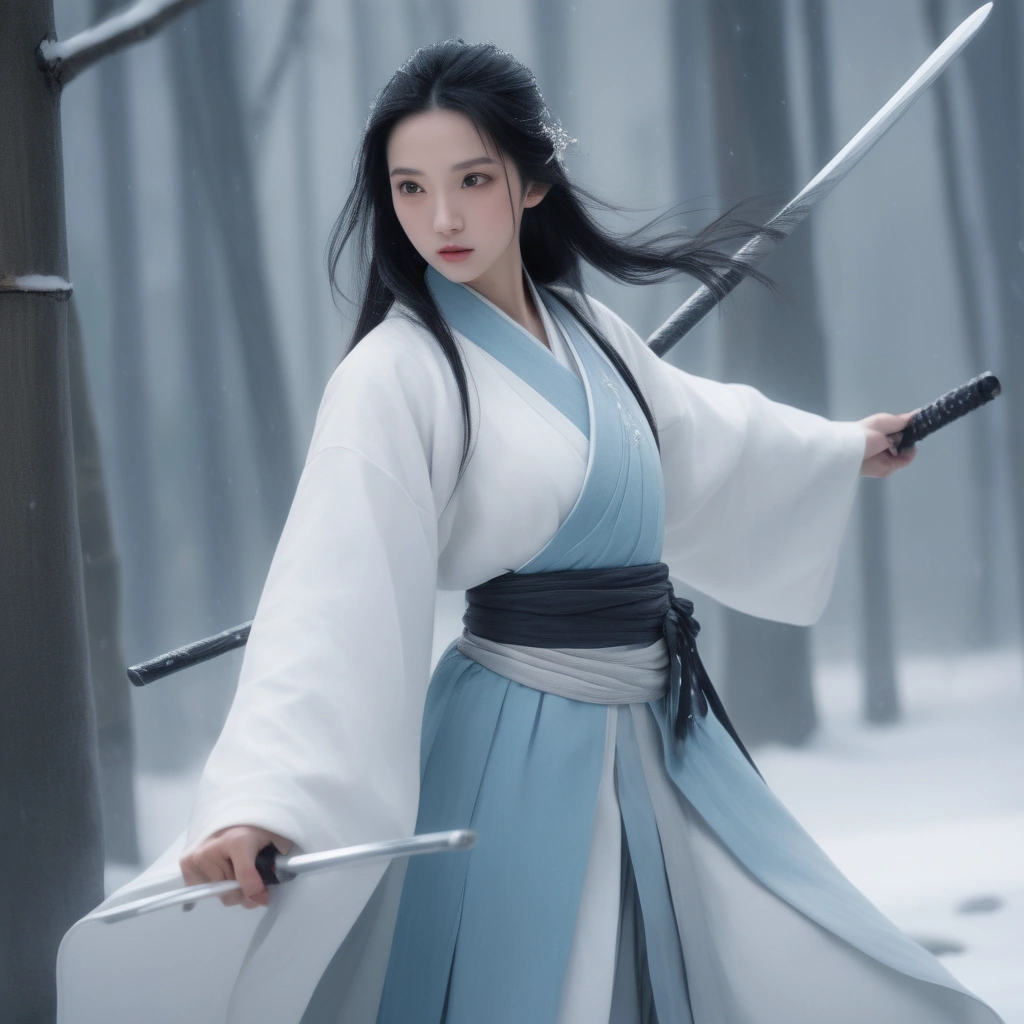
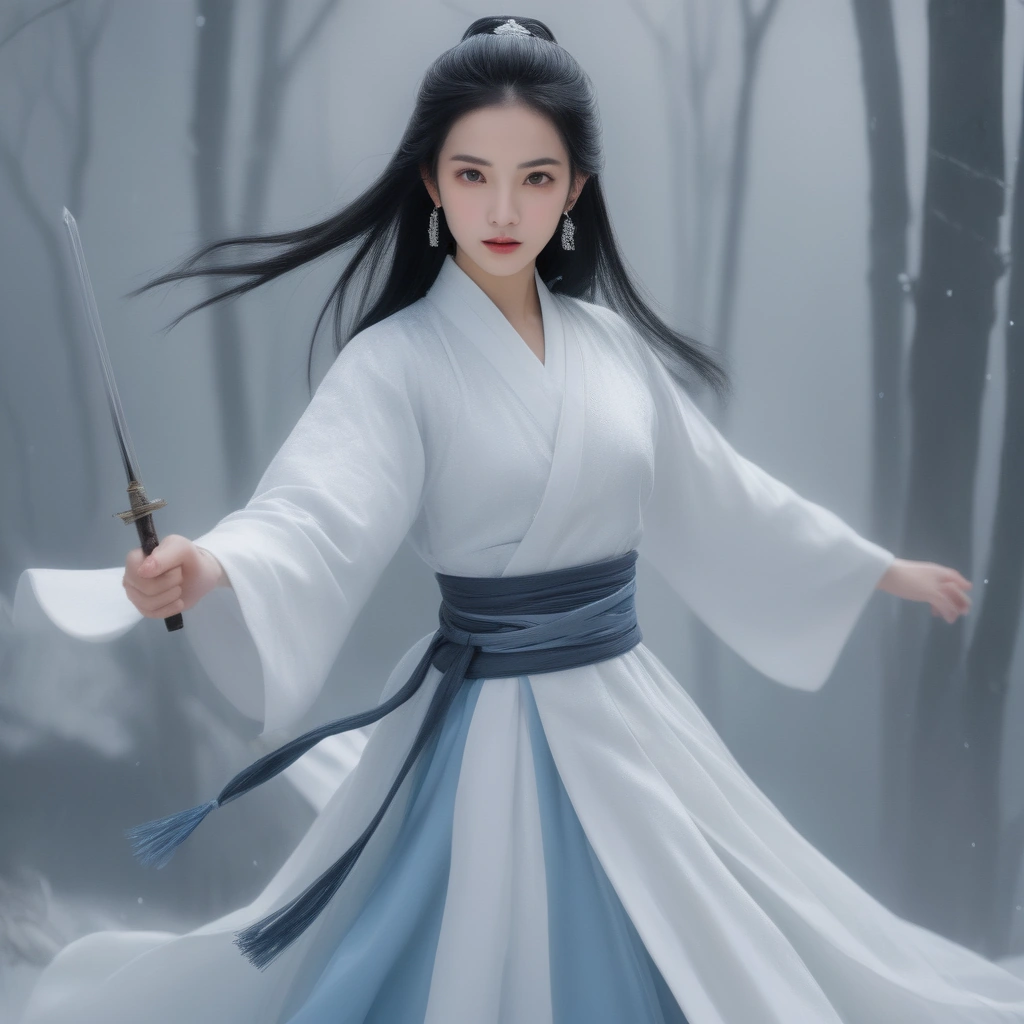
fix: rebirth crash when selecting talents + add rebirth/wuxiang illustrations
- Fix Rebirth.execute using this.TALENTS (undefined) instead of module-level TALENTS — selecting any talent caused silent TypeError, preventing rebirth
- Add legacyTalents/passives init guards to migrateChar for old saves
- Wrap executeRebirth in try-catch to surface future errors
- Add UI.addIllustration('rebirth') to executeRebirth, 'wuxiang-unlock' to completeChain
- New illustrations: rebirth (玉佩引渡 vortex), wuxiang-unlock (无相剑意 化境)
- Update li-yunshu-ending illustration to match new portrait style
- Regenerate 李云舒 avatar: crimson-peach 锦袍, heroic sword-guard stance (英姿飒爽)
- Regenerate 燕赤行/凌雪 avatars: correct hilt grip, 凌雪 straight jian blade
- NEGATIVE prompt: add curved sword, katana, dao, hand on blade

diff --git a/js/engine.js b/js/engine.js
@@ -726,6 +726,7 @@ const Engine = {
         const { char } = this.state;
         const reward = chain.completionReward || {};
         UI.addLog(`✦ 事件系列【${chain.name}】全部完成！`, 'unlock');
+        if (chain.id === 'wuxiang_sword') UI.addIllustration('wuxiang-unlock');
         if (reward.narrative) UI.addLog(reward.narrative, 'result');
         if (reward.attributes) {
             Character.applyAttributeChanges(char, reward.attributes);
@@ -1253,6 +1254,8 @@ const Engine = {
         if (!char.bondEventsDone)  char.bondEventsDone = {};
         if (!char.inheritedBonds)  char.inheritedBonds = {};
         if (!char.learnedSkills)   char.learnedSkills = [];
+        if (!char.legacyTalents)   char.legacyTalents = [];
+        if (!char.passives)        char.passives = [];
         if (!char.birthMonth)      char.birthMonth = 1;
         if (char.kills === undefined) char.kills = 0;
         if (char.injured === undefined) char.injured = false;
@@ -1276,21 +1279,27 @@ const Engine = {
     },
 
     executeRebirth(chosenTalentIds) {
-        const { char, npcs } = this.state;
-        const newChar = Rebirth.execute(char, chosenTalentIds, npcs);
-        newChar.birthMonth = char.birthMonth; // same fate, same birthday
-        Character.applyBirthMonthBonus(newChar);
-        const job = this.getJob(newChar.job);
-        newChar.hp = Character.getHPMax(newChar, job);
-        this.migrateChar(newChar);
-        this.state.char = newChar;
-        this.state.gamePhase = 'idle';
-        this.state.seenEvents = new Set();
-        UI.clearLog();
-        UI.renderAll(this.state);
-        const mName = this.BIRTH_MONTH_NAMES[newChar.birthMonth - 1];
-        UI.addLog(`✨ ${newChar.rebirthCount + 1}周目。【${newChar.name}】再度降生。和上一世一样，生于${mName}。天魔之约，依然在候。`, 'system');
-        this.saveGame();
+        try {
+            const { char, npcs } = this.state;
+            const newChar = Rebirth.execute(char, chosenTalentIds, npcs);
+            newChar.birthMonth = char.birthMonth;
+            Character.applyBirthMonthBonus(newChar);
+            const job = this.getJob(newChar.job);
+            newChar.hp = Character.getHPMax(newChar, job);
+            this.migrateChar(newChar);
+            this.state.char = newChar;
+            this.state.gamePhase = 'idle';
+            this.state.seenEvents = new Set();
+            UI.clearLog();
+            UI.addIllustration('rebirth');
+            UI.renderAll(this.state);
+            const mName = this.BIRTH_MONTH_NAMES[newChar.birthMonth - 1];
+            UI.addLog(`✨ ${newChar.rebirthCount + 1}周目。【${newChar.name}】再度降生。和上一世一样，生于${mName}。天魔之约，依然在候。`, 'system');
+            this.saveGame();
+        } catch(err) {
+            console.error('executeRebirth failed:', err);
+            UI.addLog('【系统错误】轮回失败，请刷新页面重试。', 'system');
+        }
     },
 
     toggleAuto() {},

diff --git a/js/rebirth.js b/js/rebirth.js
@@ -214,7 +214,7 @@ const Rebirth = {
 
         // Handle talent upgrades: if a new talent upgrades an old one, replace it
         for (const id of chosenTalentIds) {
-            const talent = this.TALENTS.find(t => t.id === id);
+            const talent = TALENTS.find(t => t.id === id);
             if (talent && talent.upgrades && newTalents.includes(talent.upgrades)) {
                 newTalents = newTalents.filter(t => t !== talent.upgrades);
             }

diff --git a/PROGRESS.md b/PROGRESS.md
@@ -1,6 +1,6 @@
 # 轮回江湖 — 开发进度
 
-## 当前版本：v0.12.2
+## 当前版本：v0.12.3
 
 ---
 
@@ -540,6 +540,13 @@
 - **凌霜剑骨增强**：新增「冰寒剑气」每次受击减伤5（叠加气盾），原攻击力+6保留
 - 删除赵霸天NPC相关README条目，好感度说明改为0-100单向
 - **百战余生三阶化**：初经战阵（≥5胜，1气力）→ 沙场老手（≥10胜，2气力）→ 百战余生（≥15胜，3气力）
+
+### v0.12.3（2026-04-21）
+- **轮回Bug修复**：`Rebirth.execute` 中 `this.TALENTS.find` → `TALENTS.find`（选择天赋后点击踏入轮回无响应的根本原因）；`migrateChar` 补充 `legacyTalents`/`passives` 缺失防护；`executeRebirth` 增加 try-catch 防止无声失败
+- **新增插画**：`rebirth`（玉佩引渡·时空旋涡）、`wuxiang-unlock`（无相剑意·化境）；`li-yunshu-ending` 更新为桃红色版本
+- **插画触发点**：轮回执行时自动展示 rebirth 插画；`wuxiang_sword` 任务链完成时展示 wuxiang-unlock 插画
+- **立绘更新**：李云舒改为朱红锦袍·持直剑英姿飒爽版；燕赤行/凌雪修正剑柄握持（原图握刃）；凌雪修正弯刀为直剑
+- **提示词优化**：NEGATIVE 增加 curved sword/katana/dao/hand on blade 等防错项
 
 ### v0.12.2（2026-04-21）
 - **场景插画系统**：10张 1216×832 横幅插画，在关键剧情时刻自动展示

diff --git a/README.md b/README.md
@@ -1,4 +1,4 @@
-# 轮回江湖（开发中）v0.12.0
+# 轮回江湖（开发中）v0.12.3
 
 > 武侠风世界线回溯类文字冒险游戏 · 纯 HTML/CSS/JS · GitHub Pages 可直接部署
 
